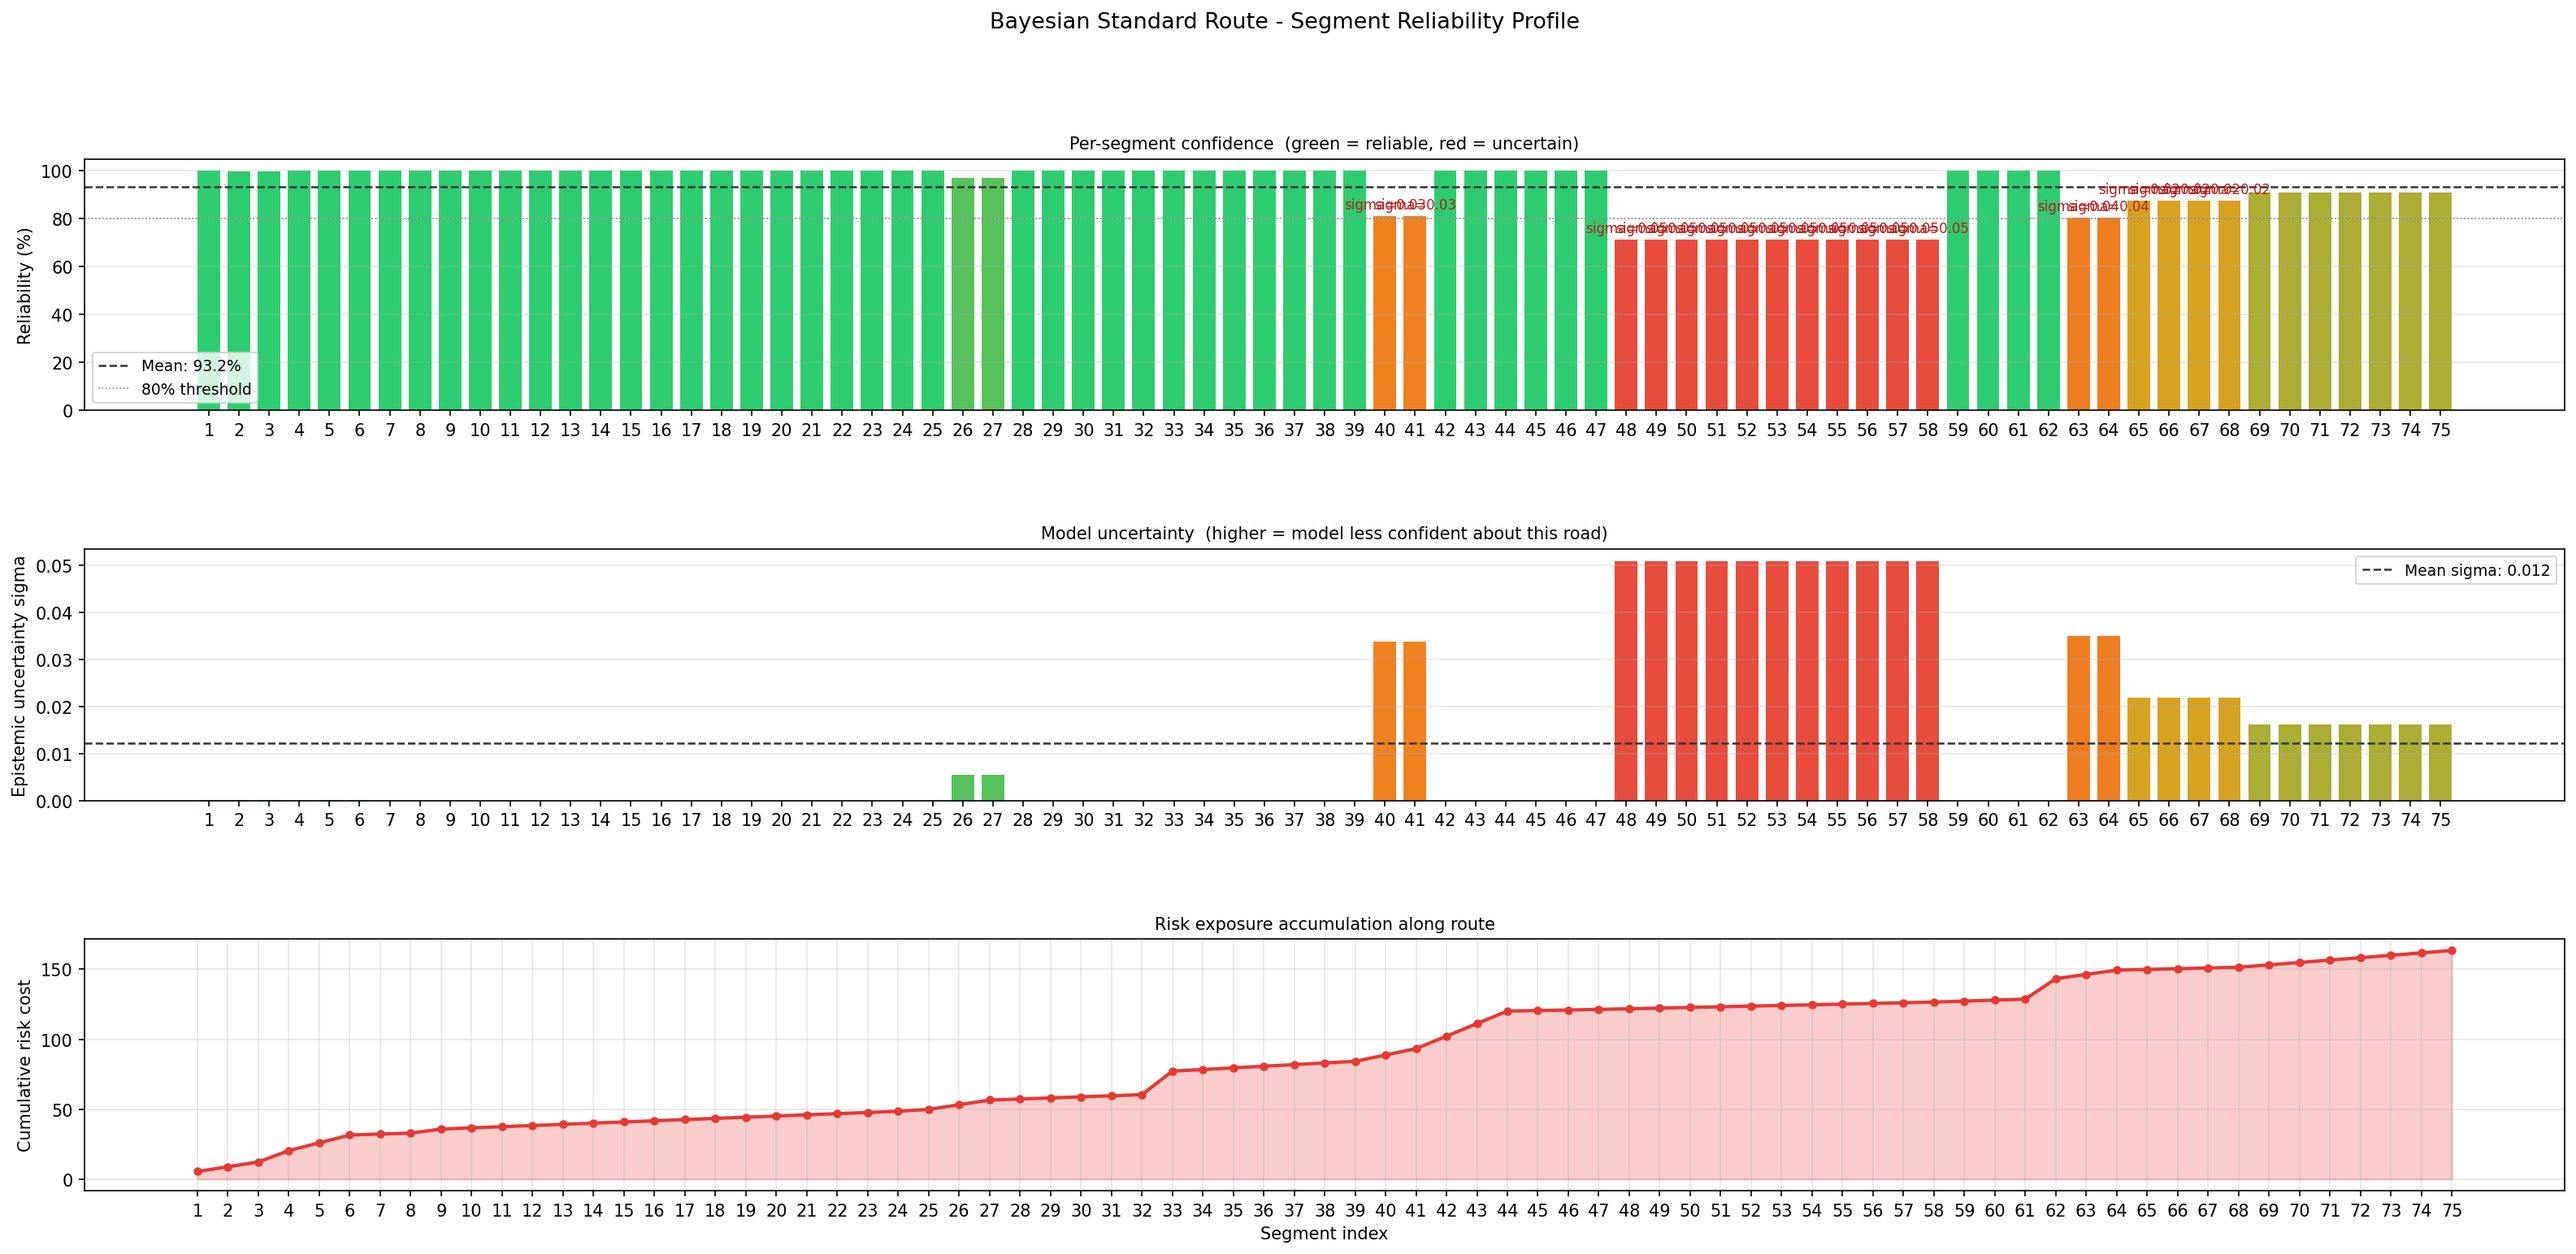
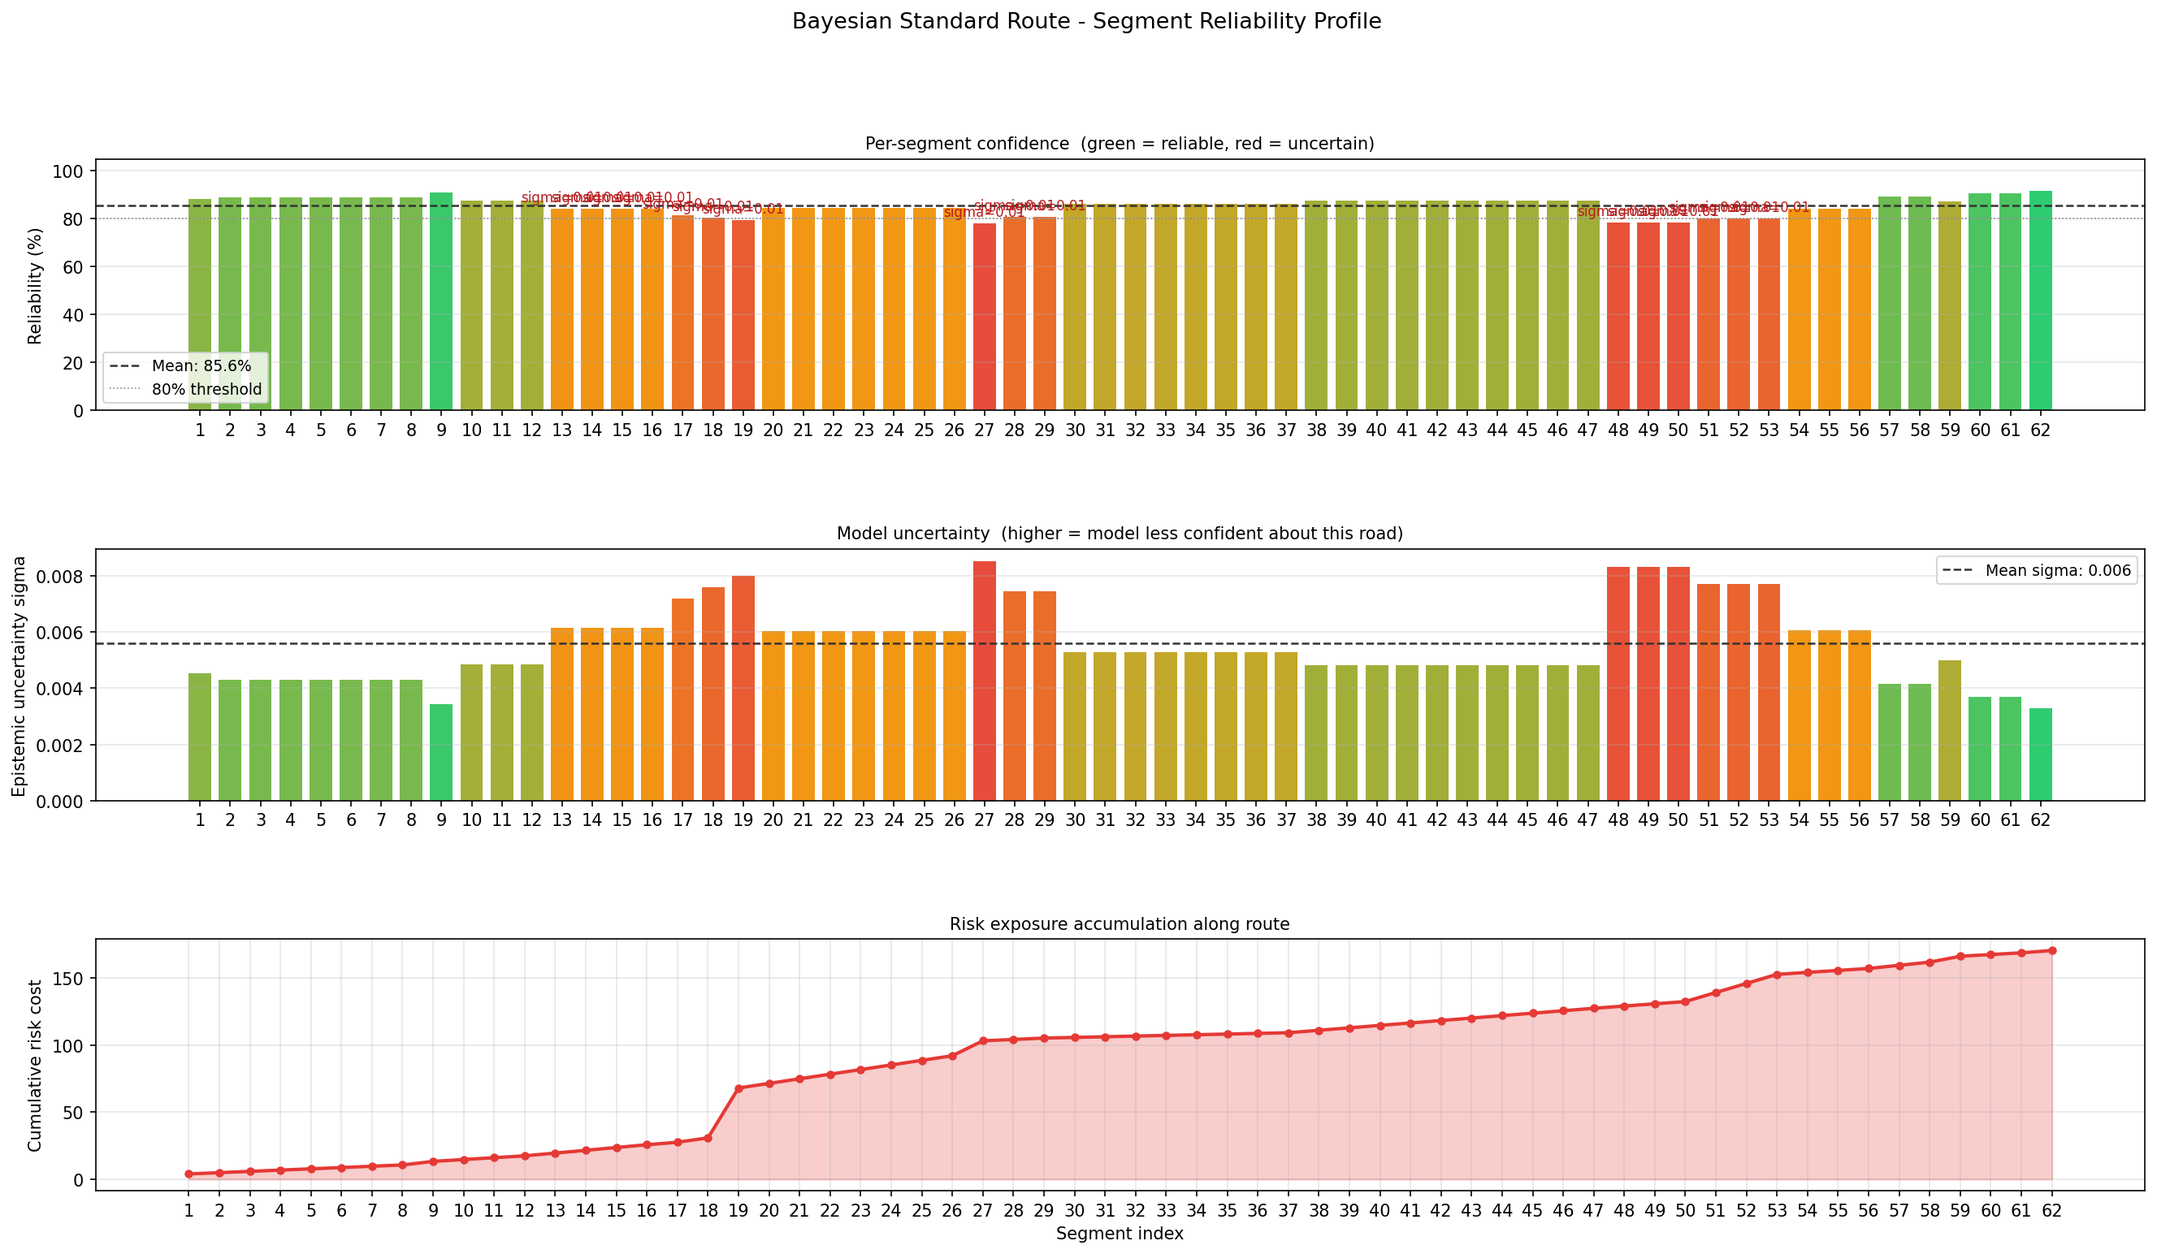
Added traffic to routing

diff --git a/src/routing/router.py b/src/routing/router.py
@@ -75,6 +75,23 @@ def apply_traffic_adjustment(graphs: dict, df_w: pd.DataFrame) -> pd.DataFrame:
     if not config.ENABLE_TRAFFIC:
         return df_w
 
+    if config.MAPPLS_AUTO_REFRESH_LIMIT > 0:
+        # reuse mappls_traffic.run() directly rather than duplicating its
+        # fetch/cache logic -- it's already TTL-aware (skips anything
+        # still fresh), so calling this on every prepare_routing_graphs()
+        # is cheap once data for a city is warm, not a repeated cost.
+        from src.data.mappls_traffic import run as fetch_traffic
+        for city_code in graphs:
+            try:
+                fetch_traffic(city_code, config.CITIES[city_code],
+                               limit=config.MAPPLS_AUTO_REFRESH_LIMIT,
+                               dry_run=False, force_refetch=False)
+            except Exception as exc:
+                # a network hiccup or credential issue here should degrade
+                # to "route without fresh traffic," not break routing
+                logger.warning(f"[{city_code}] traffic auto-refresh failed, "
+                                f"continuing with whatever's already cached: {exc}")
+
     df_w = df_w.copy()
     factor_lookup = {}  # (city_code, osmid_local) -> congestion factor
     total_fresh = 0

diff --git a/config.py b/config.py
@@ -104,7 +104,7 @@ BETWEENNESS_SAMPLE_K = 500
 
 ADD_ELEVATION = False
 ENABLE_ACCIDENTS = False
-ENABLE_TRAFFIC = True
+ENABLE_TRAFFIC = False
 ENABLE_ZONES = False
 ENABLE_WEATHER = False
 
@@ -259,6 +259,14 @@ N_BOOTSTRAP_SAMPLES = 5000
 MAPPLS_TRAFFIC_CACHE_TTL_HOURS = 6
 MAPPLS_TRAFFIC_HIGHWAY_TYPES = ["primary", "secondary"]
 MAPPLS_DISTANCE_MATRIX_MAX_POINTS = 100
+# 0 = disabled (default, safe -- routing only reads whatever's already
+# cached, never fetches on its own). Set to a small positive number
+# (e.g. 20) to have prepare_routing_graphs() auto-refresh up to that many
+# stale/missing segments per city before routing. Safe to leave on:
+# mappls_traffic.run() is TTL-aware and skips anything still fresh, and
+# ENABLE_TRAFFIC=True + this both being set is required for either the
+# refresh or the adjustment to do anything.
+MAPPLS_AUTO_REFRESH_LIMIT = 0
 
 # ============================================================
 # risk_score_v2 component weights (src/data/risk_v2.py)
